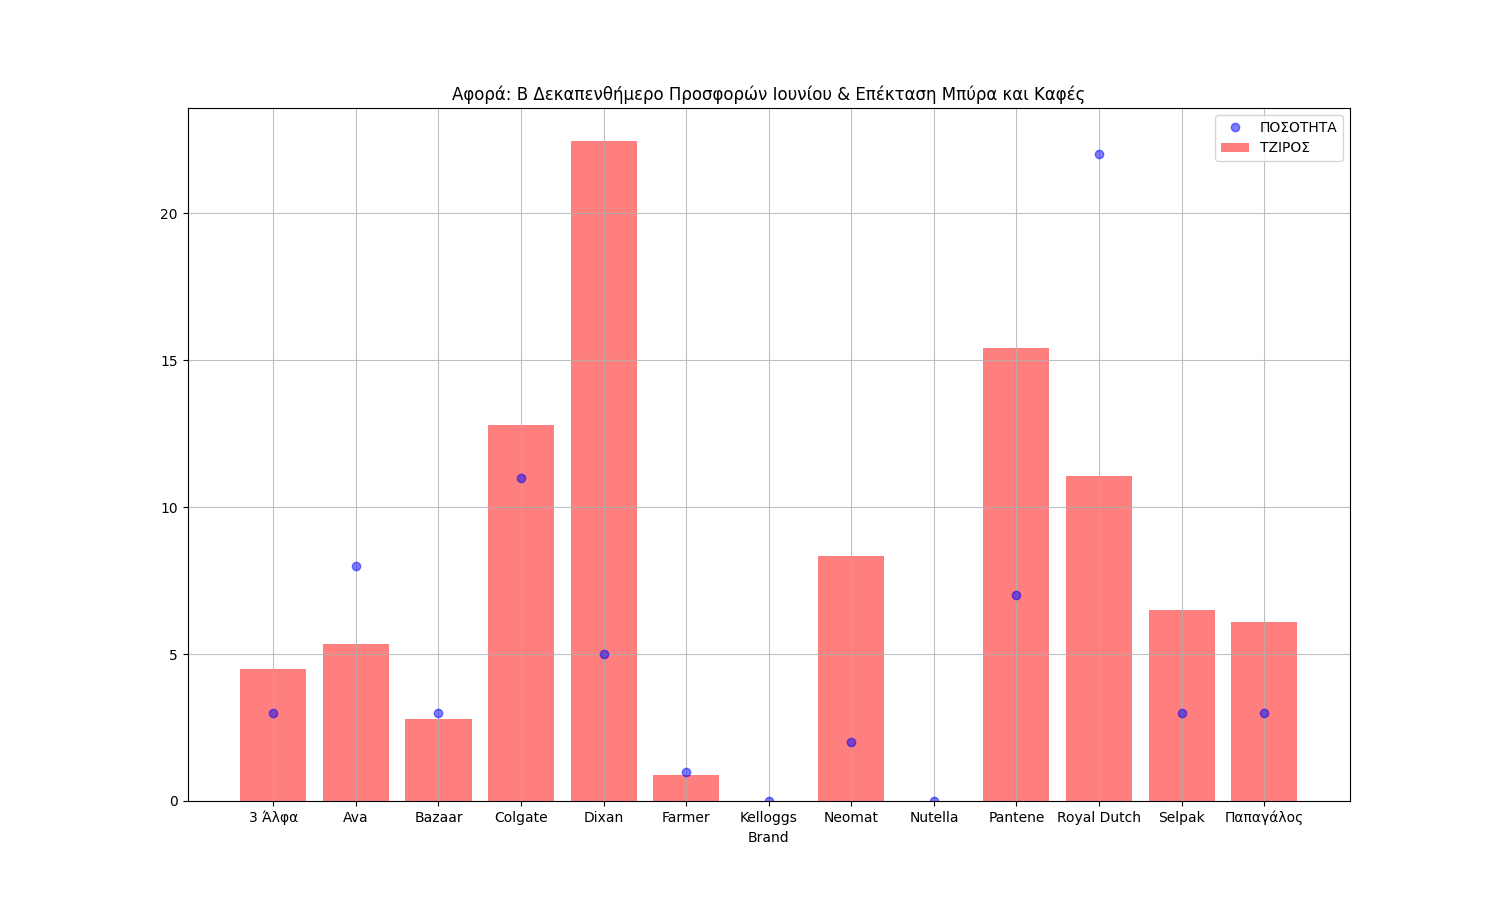
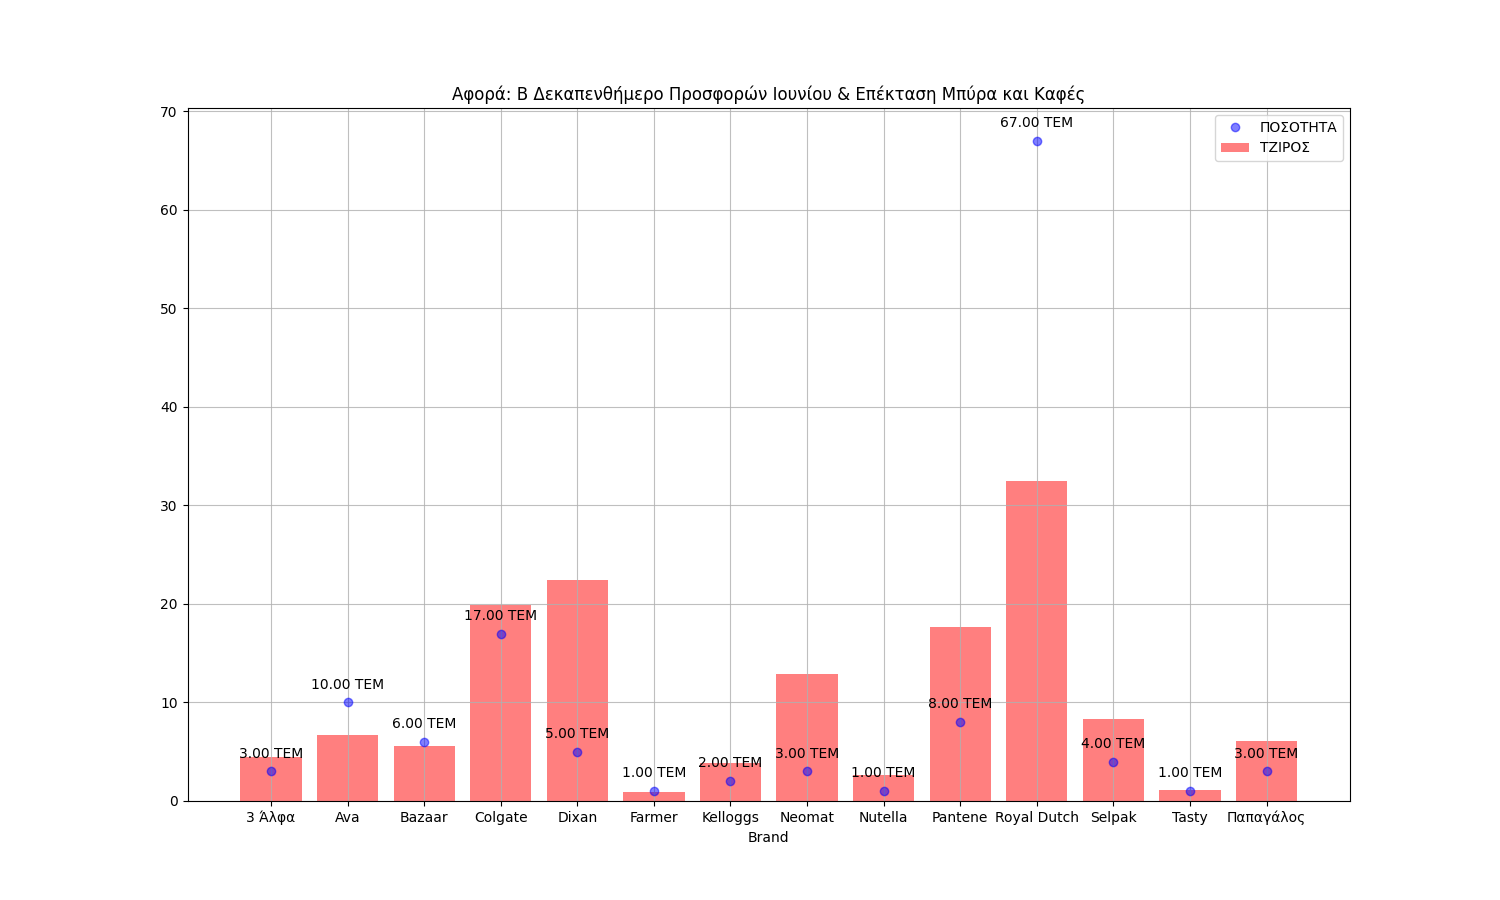
@Ioannis E. Kommas (PyCharm Commit and Push Code Lines) All Rights Reserved (Private Repository)

diff --git a/A_DAILY_ΠΟΡΕΙΑ_ΤΙΜΟΚΑΤΑΛΟΓΟΥ_ΠΩΛΗΣΕΩΝ/app.py b/A_DAILY_ΠΟΡΕΙΑ_ΤΙΜΟΚΑΤΑΛΟΓΟΥ_ΠΩΛΗΣΕΩΝ/app.py
@@ -1,10 +1,9 @@
 #  Copyright (c) 2020. Ioannis E. Kommas. All Rights Reserved
 import pandas as pd
 from pathlib import Path
-from A_DAILY_ΠΟΡΕΙΑ_ΤΙΜΟΚΑΤΑΛΟΓΟΥ_ΠΩΛΗΣΕΩΝ import sql_select, excel_export, timokatalogos
+from A_DAILY_ΠΟΡΕΙΑ_ΤΙΜΟΚΑΤΑΛΟΓΟΥ_ΠΩΛΗΣΕΩΝ.library import sql_select, timokatalogos, excel_export
 from Private import sql_connect, slack_app
 import matplotlib.pyplot as plt
-import numpy as np
 
 # ----------------MAKE DF REPORT VIEWABLE----------------------------
 pd.set_option('display.max_columns', 500)
@@ -41,20 +40,28 @@ final_result = pd.merge(left=timokatalogos, right=sales, left_on='ΚΩΔΙΚΟΣ
 brand_sales = final_result[['BRAND', 'SalesQuantity', 'Turnover']].groupby(by='BRAND').sum() \
     .sort_values('BRAND').reset_index()
 
-
 # -------------OPEN FILE | WRITE ----------------------------
 excel_export.export(path_to_file, final_result)
 
 # -------------------- PLOT --------------------
 plt.figure(figsize=(15, 9))
-plt.subplot(xlabel='Brand', title= choose.comments)
+plt.subplot(xlabel='Brand', title=choose.comments)
 plt.bar(brand_sales.BRAND, brand_sales.Turnover, alpha=0.5, color='red', label='ΤΖΙΡΟΣ')
-plt.plot(brand_sales.BRAND, brand_sales.SalesQuantity, alpha=0.5, color='blue', label='ΠΟΣΟΤΗΤΑ', marker='o', linestyle="None")
+plt.plot(brand_sales.BRAND, brand_sales.SalesQuantity, alpha=0.5, color='blue', label='ΠΟΣΟΤΗΤΑ', marker='o',
+         linestyle="None")
+for x, y in zip(brand_sales.BRAND, brand_sales.SalesQuantity):
+    label = "{:.2f} TEM".format(y)
+
+    # this method is called for each point
+    plt.annotate(label,  # this is the text
+                 (x, y),  # this is the point to label
+                 textcoords="offset points",  # how to position the text
+                 xytext=(0, 10),  # distance from text to points (x,y)
+                 ha='center')  # horizontal alignment can be left, right or center
 plt.grid(True, alpha=0.8)
 plt.legend()
 plt.savefig('views.png')
 plt.show()
-
 
 # -------------------- SLACK BOT ADD--------------------
 report = f"""
@@ -68,9 +75,6 @@ report = f"""
 ```{brand_sales}```
 """
 
-slack_app.send_text(report,slack_app.channels[0])
+slack_app.send_text(report, slack_app.channels[0])
 slack_app.send_files(f'{id}.xlsx', path_to_file, 'xlsx', slack_app.channels[0])
 slack_app.send_files('views.png', 'views.png', 'png', slack_app.channels[0])
-
-
-

diff --git a/A_DAILY_REPORTS/mini_apps/pda_statistics_app.py b/A_DAILY_REPORTS/mini_apps/pda_statistics_app.py
@@ -23,16 +23,43 @@ y = answer_05['Count "Παραστατικά"']
 plt.figure(figsize=(15, 9))
 plt.subplot(2, 1, 1,xlabel='ΕΤΟΣ', ylabel='Παραστατικά' , title= '(PDA STATISTICS) ΧΡΟΝΙΕΣ ')
 plt.bar(X, y, alpha=0.8)
+for a, b in zip(X, y):
+    label = "{:.2f}".format(b)
+
+    # this method is called for each point
+    plt.annotate(label,  # this is the text
+                 (a, b),  # this is the point to label
+                 textcoords="offset points",  # how to position the text
+                 xytext=(0, 10),  # distance from text to points (x,y)
+                 ha='center')  # horizontal alignment can be left, right or center
 plt.grid(True, alpha=0.5)
 plt.subplot(2, 2, 3, xlabel='ΜΗΝΑΣ', ylabel='Παραστατικά' , title= '(PDA STATISTICS) ΜΗΝΕΣ')
 X = answer_04['MONTH']
 y = answer_04['Count "Παραστατικά"']
 plt.bar(X, y, alpha=0.8, color='red')
+for a, b in zip(X, y):
+    label = "{:.2f}".format(b)
+
+    # this method is called for each point
+    plt.annotate(label,  # this is the text
+                 (a, b),  # this is the point to label
+                 textcoords="offset points",  # how to position the text
+                 xytext=(0, 10),  # distance from text to points (x,y)
+                 ha='center')  # horizontal alignment can be left, right or center
 plt.grid(True, alpha=0.5)
 plt.subplot(2, 2, 4, xlabel='ΗΜΕΡΑ', ylabel='Παραστατικά' , title= '(PDA STATISTICS) ΗΜΕΡΕΣ')
 X = answer_03['DAY']
 y = answer_03['Count "Παραστατικά"']
 plt.bar(X, y, alpha=0.8, color= 'yellow')
+for a, b in zip(X, y):
+    label = "{:.2f}".format(b)
+
+    # this method is called for each point
+    plt.annotate(label,  # this is the text
+                 (a, b),  # this is the point to label
+                 textcoords="offset points",  # how to position the text
+                 xytext=(0, 10),  # distance from text to points (x,y)
+                 ha='center')  # horizontal alignment can be left, right or center
 plt.grid(True, alpha=0.5)
 plt.savefig('pda_views.png')
 plt.show()

diff --git a/B_WEEKLY_ΕΝΗΜΕΡΩΣΗ_ΕΙΣΑΓΩΓΗΣ_ΠΑΡΑΣΤΑΤΙΚΩΝ/Bazaar.py b/B_WEEKLY_ΕΝΗΜΕΡΩΣΗ_ΕΙΣΑΓΩΓΗΣ_ΠΑΡΑΣΤΑΤΙΚΩΝ/Bazaar.py
@@ -2,7 +2,7 @@
 import pandas as pd
 import numpy as np
 from matplotlib import pyplot as plt
-from B_WEEKLY_ΕΝΗΜΕΡΩΣΗ_ΕΙΣΑΓΩΓΗΣ_ΠΑΡΑΣΤΑΤΙΚΩΝ import scrap, excel_writer, sql_import_report
+from B_WEEKLY_ΕΝΗΜΕΡΩΣΗ_ΕΙΣΑΓΩΓΗΣ_ΠΑΡΑΣΤΑΤΙΚΩΝ.Libraries import sql_import_report, scrap, bazaar_excel_writer
 from Private import send_mail, slack_app, sql_connect
 
 
@@ -105,7 +105,7 @@ sql_answer['TIMH Care Market'] = out['Care Market']
 
 
 # -------------------- Εισαγωγή Δεομένων στο  EXCEL --------------------
-excel_writer.export(path_to_file, sql_answer)
+bazaar_excel_writer.export(path_to_file, sql_answer)
 
 
 # ---------------- E-MAIL SEND --------------------

diff --git a/A_DAILY_REPORTS/mini_apps/ΦΡ_ΓΑΛΑ_ΔΕΛΤΑ.py b/A_DAILY_REPORTS/mini_apps/ΦΡ_ΓΑΛΑ_ΔΕΛΤΑ.py
@@ -106,6 +106,15 @@ y = answer_2['TurnOver']
 plt.figure(figsize=(15, 9))
 plt.subplot(xlabel='ΕΤΟΣ', ylabel='ΤΖΙΡΟΣ' , title= 'ELOUNDA MARKET (ΦΡΕΣΚΟ ΓΑΛΑ ΔΕΛΤΑ)')
 plt.bar(X, y, alpha=0.5)
+for a, b in zip(X, y):
+    label = "{:.2f} €".format(b)
+
+    # this method is called for each point
+    plt.annotate(label,  # this is the text
+                 (a, b),  # this is the point to label
+                 textcoords="offset points",  # how to position the text
+                 xytext=(0, 10),  # distance from text to points (x,y)
+                 ha='center')  # horizontal alignment can be left, right or center
 plt.grid(True, alpha=0.5)
 plt.savefig('fresco_gala_delta_views.png')
 plt.show()

diff --git a/A_DAILY_REPORTS/mini_apps/ΚΕΡΟΥΛΗΣ.py b/A_DAILY_REPORTS/mini_apps/ΚΕΡΟΥΛΗΣ.py
@@ -93,6 +93,15 @@ y = answer_2['TurnOver']
 plt.figure(figsize=(15, 9))
 plt.subplot(xlabel='ΕΤΟΣ', ylabel='ΤΖΙΡΟΣ' , title= 'ELOUNDA MARKET (ΚΕΡΟΥΛΗΣ)')
 plt.bar(X, y, alpha=0.5)
+for a, b in zip(X, y):
+    label = "{:.2f} €".format(b)
+
+    # this method is called for each point
+    plt.annotate(label,  # this is the text
+                 (a, b),  # this is the point to label
+                 textcoords="offset points",  # how to position the text
+                 xytext=(0, 10),  # distance from text to points (x,y)
+                 ha='center')  # horizontal alignment can be left, right or center
 plt.grid(True, alpha=0.5)
 plt.savefig('keroulis_views.png')
 plt.show()

diff --git a/A_DAILY_REPORTS/mini_apps/ΜΑΝΑΒΙΚΗ.py b/A_DAILY_REPORTS/mini_apps/ΜΑΝΑΒΙΚΗ.py
@@ -91,6 +91,15 @@ y = answer_2['TurnOver']
 plt.figure(figsize=(15, 9))
 plt.subplot(xlabel='ΕΤΟΣ', ylabel='ΤΖΙΡΟΣ' , title= 'ELOUNDA MARKET (ΜΑΝΑΒΙΚΗ)')
 plt.bar(X, y, alpha=0.5)
+for a, b in zip(X, y):
+    label = "{:.2f} €".format(b)
+
+    # this method is called for each point
+    plt.annotate(label,  # this is the text
+                 (a, b),  # this is the point to label
+                 textcoords="offset points",  # how to position the text
+                 xytext=(0, 10),  # distance from text to points (x,y)
+                 ha='center')  # horizontal alignment can be left, right or center
 plt.grid(True, alpha=0.5)
 plt.savefig('manaviki_views.png')
 plt.show()

diff --git a/A_DAILY_REPORTS/mini_apps/ΠΑΓΩΤΑ.py b/A_DAILY_REPORTS/mini_apps/ΠΑΓΩΤΑ.py
@@ -91,6 +91,15 @@ y = answer_2['TurnOver']
 plt.figure(figsize=(15, 9))
 plt.subplot(xlabel='ΕΤΟΣ', ylabel='ΤΖΙΡΟΣ' , title= 'ELOUNDA MARKET (ΠΑΓΩΤΑ)')
 plt.bar(X, y, alpha=0.5)
+for a, b in zip(X, y):
+    label = "{:.2f} €".format(b)
+
+    # this method is called for each point
+    plt.annotate(label,  # this is the text
+                 (a, b),  # this is the point to label
+                 textcoords="offset points",  # how to position the text
+                 xytext=(0, 10),  # distance from text to points (x,y)
+                 ha='center')  # horizontal alignment can be left, right or center
 plt.grid(True, alpha=0.5)
 plt.savefig('pagota_views.png')
 plt.show()

diff --git a/A_DAILY_REPORTS/mini_apps/ΘΑΛΑΣΣΙΝΑ.py b/A_DAILY_REPORTS/mini_apps/ΘΑΛΑΣΣΙΝΑ.py
@@ -97,6 +97,15 @@ plt.figure(figsize=(15, 9))
 plt.subplot(xlabel='ΕΤΟΣ', ylabel='ΤΖΙΡΟΣ' , title= 'ELOUNDA MARKET (ΘΑΛΑΣΣΙΝΑ)')
 plt.bar(X, y, alpha=0.5)
 plt.grid(True, alpha=0.5)
+for a, b in zip(X, y):
+    label = "{:.2f} €".format(b)
+
+    # this method is called for each point
+    plt.annotate(label,  # this is the text
+                 (a, b),  # this is the point to label
+                 textcoords="offset points",  # how to position the text
+                 xytext=(0, 10),  # distance from text to points (x,y)
+                 ha='center')  # horizontal alignment can be left, right or center
 plt.savefig('sea_views.png')
 plt.show()
 
